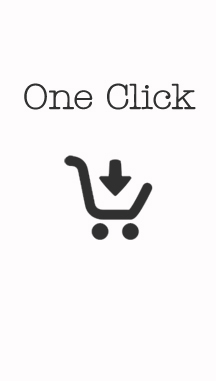
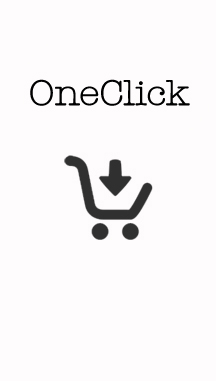
changes

Changed region(s): [[0.1111, 0.2021, 0.9167, 0.2887]]

diff --git a/index.html b/index.html
@@ -22,6 +22,7 @@
     <link rel="stylesheet" href="css/animate.css">
     <link href='http://fonts.googleapis.com/css?family=Roboto:100,300' rel='stylesheet' type='text/css'>
     <link href='http://fonts.googleapis.com/css?family=Architects+Daughter' rel='stylesheet' type='text/css'>
+    <script src="https://ajax.googleapis.com/ajax/libs/jquery/2.1.3/jquery.min.js"></script>
 
 
     <!--[if lt IE 9]>
@@ -40,6 +41,9 @@
                 <div class ="slide-wrap wow fadeInRightBig">
                     <div class="img-slide">
                         <img src="images/slide1.jpg" alt="">
+                        <img src="images/slide2.jpg" alt="">
+                        <img src="images/slide3.jpg" alt="">
+                        <img src="images/slide4.jpg" alt="">
                     </div>
                 </div>
                 <div class="header-wrapper">
@@ -48,7 +52,7 @@
                     <a href="test://test1test" class="apps"><img src="images/app.png" alt=""></a>
                     <a href="test://test1test" class="apps app2"><img src="images/app2.png" alt=""></a>
 
-                    <p class="shadow">Buy instantly in online stores with our app one click.</p>
+                    <p class="shadow">Buy instantly in online stores with our app oneclick.</p>
                     <p class="shadow">Join us now and be the first to try our service!</p>
 
                     <!-- changing confirmation behavior of google forms-->
@@ -202,7 +206,7 @@
         <div class="wrap">
             <p>info@oneclickapp.co</p>
             <p>+38050-94-95-205</p>
-            <p>&copy; 2014 <strong>One Click</strong>, All Rights Reserved</p>
+            <p>&copy; 2014 <strong>OneClick</strong>, All Rights Reserved</p>
         </div>
         <!-- /.wrap -->
     </footer>
@@ -213,7 +217,6 @@
         <!-- /.spanning-columns -->
     </div>
     <!-- /.main -->
-    <script src="js/jquery.js"></script>
     <script src="js/library.js"></script>
     <script src="js/script.js"></script>
     <script src="js/retina.js"></script>
@@ -226,16 +229,26 @@
         new WOW().init();
 
         $('#example').countdown({
-        date: '01/31/2015 23:59:59'
+        date: '05/01/2015 00:00:00'
         }, function () {
-          alert('Happy New Year!');
         });
         
         function clearInput(){
             document.querySelector('.crazy input').value ="";
         }
+    // jQuery slider
+   $.fn.slideShow = function(timeOut) {
+   var $elem = this;
+   this.children(':gt(0)').hide();
+   setInterval(function() {
+    $elem.children().eq(0).fadeOut().next().fadeIn().end().appendTo($elem);
+   }, timeOut || 3000);
+  };
 
-       
+  $(function() {
+   $('.img-slide').slideShow();
+  });
+
     // clearing input value
 
     </script>

diff --git a/js/slider.js b/js/slider.js
@@ -1,0 +1,19 @@
+function($){
+  $.fn.simplestSlideShow = function(settings){
+    var config = {
+      'timeOut': 3000,
+      'speed': 'normal'
+    };
+    if (settings) $.extend(config, settings);
+    this.each(function(){
+      var $elem = $(this);
+      $elem.children(':gt(0)').hide();
+      setInterval(function(){
+        $elem.children().eq(0).fadeOut(config['speed'])
+        .next().fadeIn(config['speed'])
+        .end().appendTo($elem);
+      }, config['timeOut']);
+    });
+    return this;
+  };
+})(jQuery);

diff --git a/css/style.css b/css/style.css
@@ -1483,4 +1483,10 @@ input:focus ~ .highlight {
     background: #fff;
     margin-top: 75px;
     margin-left: 18px;
+    position: relative;
+}
+.img-slide img {
+    position: absolute;
+    top: 0px;
+    left: 0px;
 }
